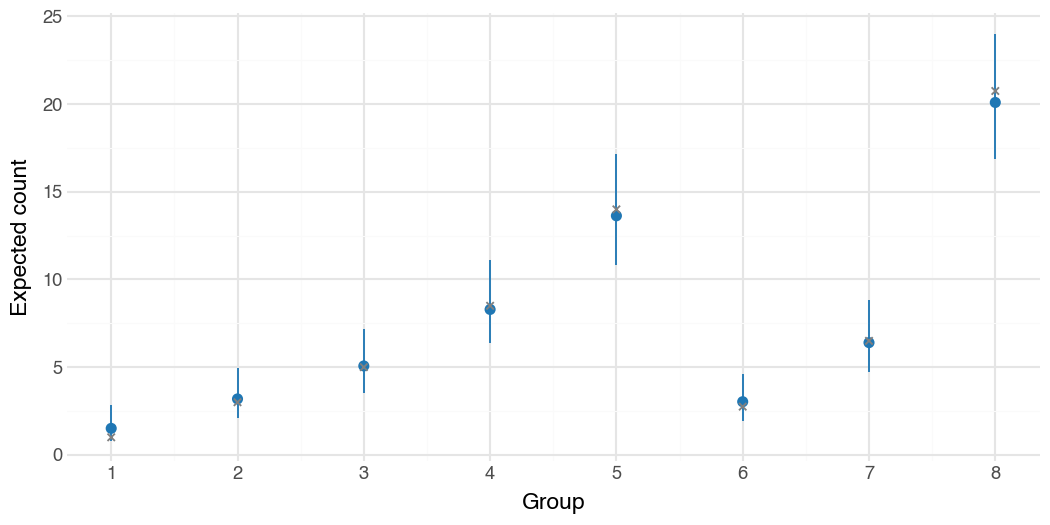
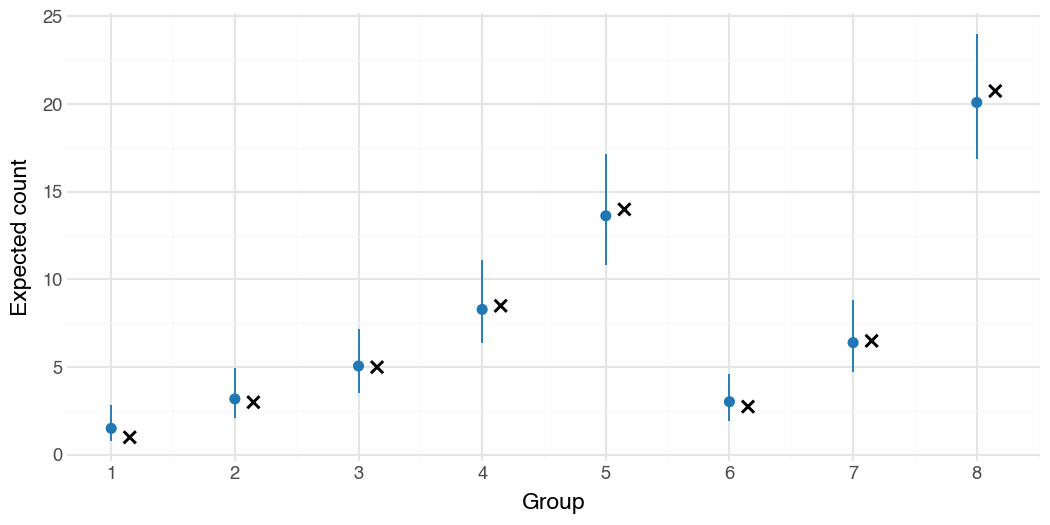
Make observed means distinct in the Laplace guide plot

diff --git a/docs/source/optimizer-laplace.rst b/docs/source/optimizer-laplace.rst
@@ -182,7 +182,14 @@ The approximate posterior median is 0.79, with a 90% credible interval of
    rate_plot = (
        p9.ggplot(rate_summary, p9.aes(x="group", y="median"))
        + p9.geom_pointrange(p9.aes(ymin="lower", ymax="upper"), color="#1f77b4")
-       + p9.geom_point(p9.aes(y="observed"), shape="x", color="gray")
+       + p9.geom_point(
+           p9.aes(y="observed"),
+           shape="x",
+           color="black",
+           size=2.5,
+           stroke=0.8,
+           position=p9.position_nudge(x=0.15),
+       )
        + p9.scale_x_continuous(breaks=range(1, 9))
        + p9.labs(x="Group", y="Expected count")
        + p9.theme_minimal()
@@ -191,12 +198,13 @@ The approximate posterior median is 0.79, with a 90% credible interval of
    rate_plot.show()
 
 .. figure:: _static/optimizer-laplace-rates.png
-   :alt: Approximate posterior medians and 90 percent credible intervals for eight group rates, with observed group means marked by crosses.
+   :alt: Approximate posterior medians and 90 percent credible intervals for eight group rates, with observed group means marked by black crosses slightly to the right.
 
    Blue points and bars show posterior medians and 90% credible intervals;
-   gray crosses mark observed means. The intervals carry uncertainty in the mean,
-   scale, and group effects through to expected counts. New observations also
-   vary according to the Poisson distribution.
+   black crosses mark observed means, shifted slightly to the right for clarity.
+   The intervals carry uncertainty in the mean, scale, and group effects through
+   to expected counts. New observations also vary according to the Poisson
+   distribution.
 
 For matrix calculations, ``posterior.covariance()`` constructs the full covariance
 on request. ``posterior.names`` and ``posterior.shapes`` describe its ordering.
